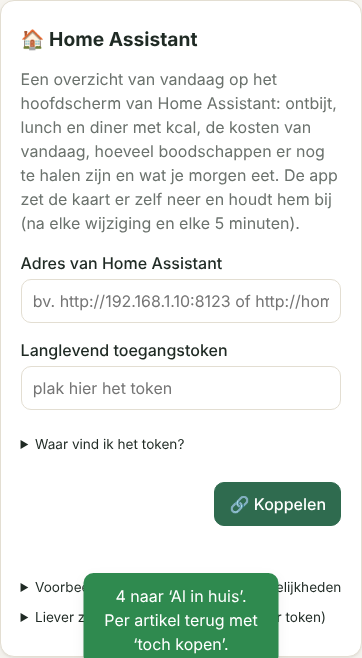
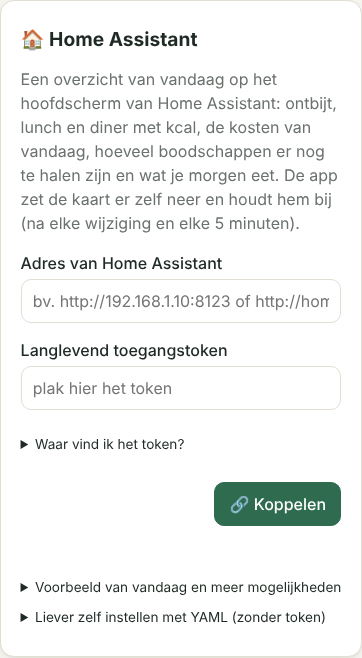
Home Assistant: eigen dashboard met streepje in het adres (v3.8.1)
Home Assistant weigert een dashboard-adres zonder streepje; gebruik
'dashboard-maaltijden'. De koppeling wordt bewaard zodra de sensoren
werken, zodat 'Kaart opnieuw plaatsen' kan als alleen de kaart mislukt.

Claude-Session: https://claude.ai/code/session_015qDAoaVP1ozdDQMcVU3Sjt

Changed region(s): [[0.2127, 0.8511, 0.7901, 1.0]]

diff --git a/server/homeassistant.js b/server/homeassistant.js
@@ -237,6 +237,8 @@ async function haSocket({ url, token }, run) {
   }
 }
 
+// Home Assistant eist een streepje in het adres van een dashboard
+const DASH = 'dashboard-maaltijden';
 const hasOurCard = (config) => JSON.stringify(config || {}).includes('sensor.maaltijden_vandaag');
 
 /** De kaart bovenaan het eerste tabblad zetten (zowel ‘secties’ als klassieke weergave). */
@@ -266,17 +268,17 @@ export async function addDashboardCard(link = haLink()) {
     }
     // Eigen dashboard
     const list = await call({ type: 'lovelace/dashboards/list' });
-    if (!(list.result || []).some((d) => d.url_path === 'maaltijden')) {
-      const created = await call({ type: 'lovelace/dashboards/create', url_path: 'maaltijden', title: 'Maaltijden', icon: 'mdi:silverware-fork-knife', show_in_sidebar: true, require_admin: false, mode: 'storage' });
+    if (!(list.result || []).some((d) => d.url_path === DASH)) {
+      const created = await call({ type: 'lovelace/dashboards/create', url_path: DASH, title: 'Maaltijden', icon: 'mdi:silverware-fork-knife', show_in_sidebar: true, require_admin: false, mode: 'storage' });
       if (!created.success) {
         throw Object.assign(new Error(`Kon geen dashboard aanmaken in Home Assistant${created.error?.message ? `: ${created.error.message}` : ''}. Is het token van een beheerder?`), { status: 502 });
       }
     }
-    const own = await call({ type: 'lovelace/config', url_path: 'maaltijden' });
-    if (own.success && hasOurCard(own.result)) return { dashboard: 'Maaltijden', added: false, path: '/maaltijden', reason: 'auto' };
-    const saved = await call({ type: 'lovelace/config/save', url_path: 'maaltijden', config: { title: 'Maaltijden', views: [{ title: 'Vandaag', path: 'vandaag', cards: [CARD] }] } });
+    const own = await call({ type: 'lovelace/config', url_path: DASH });
+    if (own.success && hasOurCard(own.result)) return { dashboard: 'Maaltijden', added: false, path: `/${DASH}`, reason: 'auto' };
+    const saved = await call({ type: 'lovelace/config/save', url_path: DASH, config: { title: 'Maaltijden', views: [{ title: 'Vandaag', path: 'vandaag', cards: [CARD] }] } });
     if (!saved.success) throw Object.assign(new Error('Kon de kaart niet opslaan in Home Assistant. Is het token van een beheerder?'), { status: 502 });
-    return { dashboard: 'Maaltijden', added: true, path: '/maaltijden', reason: 'auto' };
+    return { dashboard: 'Maaltijden', added: true, path: `/${DASH}`, reason: 'auto' };
   });
 }
 
@@ -286,10 +288,11 @@ export async function connectHomeAssistant({ url, token }, appUrl) {
   if (!link.token) throw Object.assign(new Error('Plak het langlevende toegangstoken uit Home Assistant'), { status: 400 });
   await haFetch(link, '/api/');
   await pushStates(link);
-  const card = await addDashboardCard(link);
+  // Bewaren zodra de sensoren werken; mislukt alleen de kaart, dan kan ‘Kaart opnieuw plaatsen’ later
   setSetting('homeassistant_url', link.url);
   setSetting('homeassistant_token', link.token);
   setSetting('homeassistant_app_url', appUrl);
+  const card = await addDashboardCard(link);
   return { url: link.url, ...card };
 }
 

diff --git a/test/homeassistant.test.js b/test/homeassistant.test.js
@@ -66,8 +66,8 @@ test('automatisch hoofdscherm: eigen dashboard ‘Maaltijden’, sectie-weergave
     assert.equal(r.status, 200, JSON.stringify(r.body));
     assert.equal(r.body.reason, 'auto');
     assert.equal(r.body.dashboard, 'Maaltijden');
-    assert.deepEqual(ha.dashboards.map((d) => d.url_path), ['maaltijden']);
-    assert.match(JSON.stringify(ha.configs.maaltijden), /sensor\.maaltijden_vandaag/);
+    assert.deepEqual(ha.dashboards.map((d) => d.url_path), ['dashboard-maaltijden']);
+    assert.match(JSON.stringify(ha.configs['dashboard-maaltijden']), /sensor\.maaltijden_vandaag/);
     assert.equal(ha.configs.main.views[0].cards.length, 1, 'hoofddashboard niet aangeraakt');
     // Tweede keer: dashboard bestaat al, geen nieuwe
     const again = await post('/homeassistant/card');

diff --git a/test/ha-mock.js b/test/ha-mock.js
@@ -39,6 +39,7 @@ function lovelace(msg) {
   }
   if (msg.type === 'lovelace/config/save') { ha.configs[key] = msg.config; return { success: true, result: null }; }
   if (msg.type === 'lovelace/dashboards/list') return { success: true, result: ha.dashboards };
+  if (msg.type === 'lovelace/dashboards/create' && !msg.url_path.includes('-')) return { success: false, error: { code: 'invalid_format', message: 'Url path needs to contain a hyphen (-)' } };
   if (msg.type === 'lovelace/dashboards/create') { ha.dashboards.push({ url_path: msg.url_path, title: msg.title }); return { success: true, result: {} }; }
   return { success: false, error: { code: 'unknown_command' } };
 }

diff --git a/README.md b/README.md
@@ -4,11 +4,12 @@ Weekplanner, receptenboek en calorieëndagboek voor op je eigen server. Plan je 
 boodschappenlijst met prijzen en voedingswaarden. Er zijn 50 Nederlandse recepten om mee te beginnen. Werkt op computer, telefoon en als Android-app.
 Geen account, geen abonnement, geen advertenties.
 
-## Laatste wijziging (v3.8.0)
+## Laatste wijziging (v3.8.1)
 
 - 🏡 **Home Assistant koppelen met één knop**: vul bij **Instellingen → Home Assistant** het adres en een toegangstoken in.
   De app maakt de sensoren en zet de kaart met het overzicht van vandaag zelf op je dashboard (ontbijt, lunch, diner, kcal, kosten,
   boodschappen, morgen), en houdt hem bij. Zelf met YAML instellen kan nog steeds
+- Opgelost: koppelen met Home Assistant gaf “Url path needs to contain a hyphen” als de app een eigen dashboard moest maken
 - 🏠 **Boodschappen: afgevinkte in huis zetten** – na het boodschappen doen met één knop alles wat je hebt afgevinkt naar ‘Al in huis’; de lijst is weer leeg
 - Opgelost: vensters sloten soms vanzelf. Naast een formulier tikken, ‘Ga’/Enter op het toetsenbord en het terug-gebaar sluiten
   een venster met ingevulde gegevens niet meer zonder te vragen

diff --git a/docs/handleiding.md b/docs/handleiding.md
@@ -188,7 +188,7 @@ een account met beheerrechten) en tik op **🔗 Koppelen**. De app:
 - maakt de sensoren `sensor.maaltijden_vandaag` (waarde: het diner van vandaag; attributen o.a. `ontbijt`, `lunch`, `diner`, `kcal_pp`,
   `kosten`, `boodschappen_open`, `boodschappen`, `morgen_diner`, `afbeelding` en `markdown`) en `sensor.maaltijden_boodschappen_open`;
 - zet een Markdown-kaart met het overzicht van vandaag bovenaan je hoofddashboard. Wordt je hoofddashboard nog automatisch door
-  Home Assistant gemaakt, dan laat de app dat met rust en maakt een eigen dashboard **Maaltijden** in de zijbalk;
+  Home Assistant gemaakt, dan laat de app dat met rust en maakt een eigen dashboard **Maaltijden** in de zijbalk (adres `/dashboard-maaltijden`);
 - werkt de sensoren bij na elke wijziging in de app en daarnaast elke 5 minuten.
 
 Het token wordt alleen op je eigen server bewaard en zit niet in back-ups. *Ontkoppelen* stopt het bijwerken; verwijder dan ook het token in Home Assistant.
